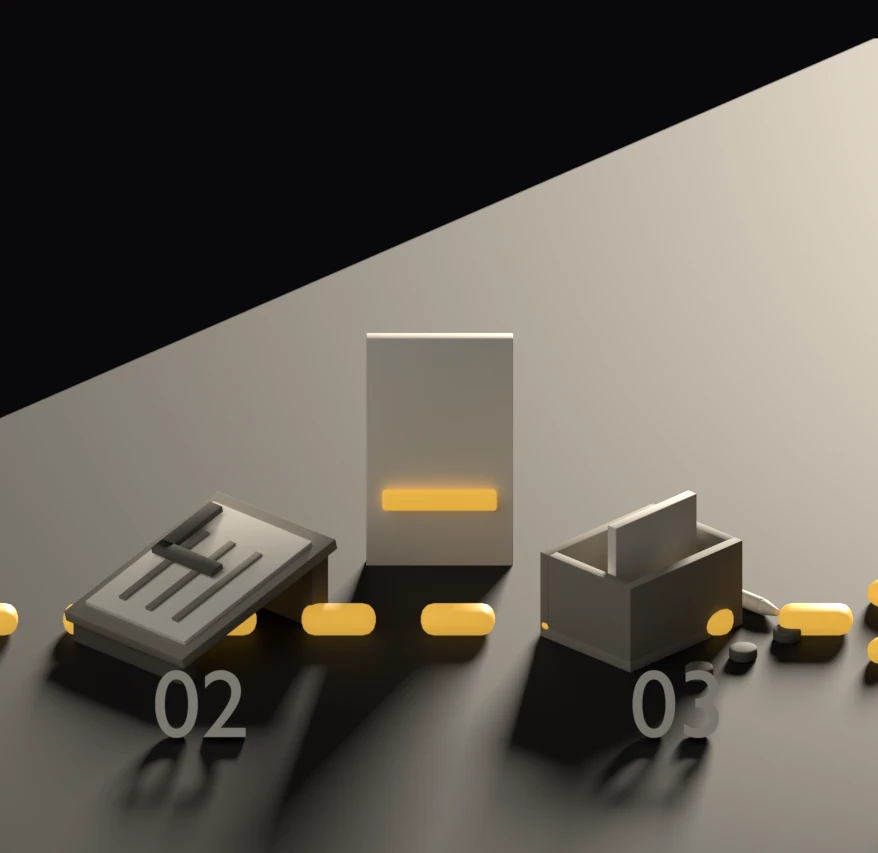
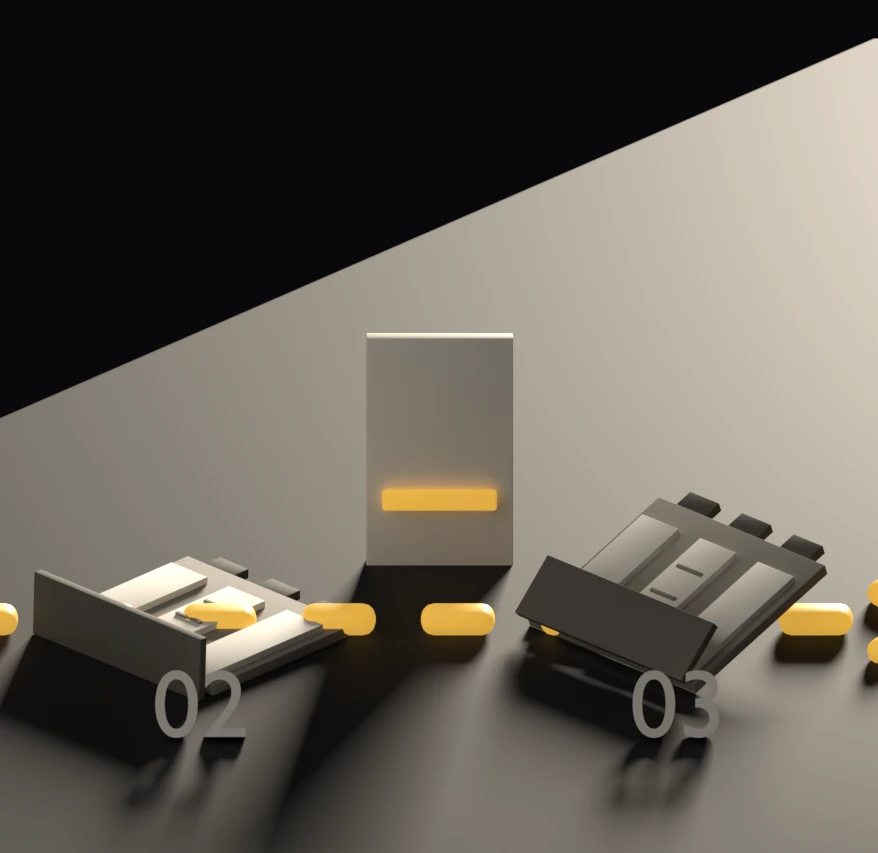
feat(hiw): hiw-chaine sert un seul objet en quatre etats, rail et ancres inchanges
Les huit WebP sont re-sortis. Le client voyait quatre objets bien rendus qui ne
disaient pas quatre etapes : les quatre stations sont maintenant LE MEME objet — le
dossier du client, couverture + rabat + trois onglets + trois feuilles — dans quatre
etats, batis par une seule fonction appelee quatre fois.

CE FICHIER N'AVAIT AUCUNE GEOMETRIE A CHANGER, ET CE N'EST PAS UNE PAROLE.
`rendus/chaine.ancres.json` est byte-a-byte identique a celui de la version
precedente : les quatre abscisses de X_STATIONS valent toujours 0,1278 / 0,3409 /
0,5541 / 0,7673 et les deux ancres d'etiquette toujours (0,7673 ; 0,2407) et
(0,9202 ; 0,3534). La scene les re-emet et les compare elle-meme aux litteraux de ce
fichier, et sort en code 1 avant de rendre si l'une differe. Le recadrage du <source>
fait toujours 878x853 aux memes fractions x 0,2513..0,6433, y 0,2239..0,8562.

Re-verifie sur le serveur de dev par les deux sondes d'airbnb-demo :
  verif_rail.js            37/37 — quatre tirets aux quatre fractions exactes,
                           0 tiret en avance, queue en pointille a (1 - 0,7673),
                           bande absente a 767 et a 390 px, rail plein et immobile
                           en mouvement reduit
  verif_rail_lisible.js    fr 33/33 ; en 32/33, le seul echec etant la dette
                           PRE-EXISTANTE deja prouvee par A/B (contraste
                           remplissage/piste 5,5:1 a 768 px en locale en)
[…]

Changed region(s): [[0.5535, 0.5791, 0.9533, 1.0], [0.0, 0.5791, 0.3998, 0.9449]]

diff --git a/components/HowItWorks.tsx b/components/HowItWorks.tsx
@@ -207,14 +207,34 @@ const X_STATIONS = [0.1278, 0.3409, 0.5541, 0.7673] as const;
  * demi-profondeur du socle, et aucun parametre du pointille n'y entre. Le rail, ses
  * quatre tirets et la grille de colonnes ne visent donc rien qui ait bouge.
  *
- * ── ET C'EST ENCORE VRAI APRES LA REFONTE DES QUATRE CORPS DE STATION ───────
- * Le client a refuse les quatre cadres gris de completude croissante : « ils ne
- * disent ni diagnostic ni resultat ». Les quatre corps sont donc refaits — un
- * dossier a onglets, une planche a dessin, un boitier en montage, un porte-dossiers
- * — et la cause en est mesuree : dans le releve des lectures a l'aveugle du
- * chantier, tous les objets qu'un lecteur a NOMMES ont une silhouette composee de
- * plusieurs volumes, et tous ceux qui ont echoue sont un volume unique ou la
- * repetition d'un volume unique. Quatre cadres gris etaient le second cas.
+ * ── ET C'EST ENCORE VRAI APRES DEUX REFONTES DES QUATRE CORPS DE STATION ────
+ * PREMIERE REFONTE. Le client a refuse les quatre cadres gris de completude
+ * croissante : « ils ne disent ni diagnostic ni resultat ». Les quatre corps sont
+ * devenus quatre OBJETS — un dossier a onglets, une planche a dessin, un boitier en
+ * montage, un porte-dossiers.
+ *
+ * SECONDE REFONTE, ET C'EST CE QUE L'ASSET SERT AUJOURD'HUI. Le client a refuse ces
+ * quatre objets aussi, et pour une autre raison : ils sont bien rendus mais ILS NE
+ * DISENT PAS QUATRE ETAPES. La cause etait dans le code — quatre fonctions batissaient
+ * quatre objets sans rapport, sans un maillage partage ni aucune machine a etats, et
+ * le seul fil etait une matiere. Les quatre stations sont donc maintenant UN SEUL
+ * OBJET — le dossier du client : une couverture, un rabat, trois onglets, trois
+ * feuilles — dans QUATRE ETATS, batis par une seule fonction appelee quatre fois :
+ * ferme et vide avec les feuilles en tas dessus ; ouvert avec les feuilles dedans,
+ * alignees et annotees ; redresse a 20 deg, le rabat redescendant ; debout, ferme,
+ * lisere dore. L'invariant est MESURE et non affirme : la scene compare les
+ * dimensions locales des huit volumes structurels cote a cote aux quatre stations et
+ * sort en code 1 avant de rendre si l'une differe.
+ *
+ * CE QUE LES LECTURES A L'AVEUGLE DISENT DE L'ASSET SERVI, Y COMPRIS CE QUI RATE.
+ * Huit lectures au registre `rendu-3d/REGISTRE_LECTURES.jsonl`. Sur l'asset servi,
+ * 4 lecteurs sur 4 repondent « une meme chose » et donnent l'ordre 01 -> 04 — mais
+ * les quatre citent LES NUMEROS GRAVES ET LES FLECHES comme raison, pas les formes.
+ * Sur un temoin rendu sans les numeros, 2 sur 4 seulement : les deux de 1 120 px de
+ * largeur d'AFFICHAGE oui, les deux de 728 px non. A 728 px la progression est donc
+ * portee par les chiffres. La corriger demanderait un objet plus grand que le carre
+ * de station de 0,294, donc un autre ECHELLE, donc d'autres abscisses que les quatre
+ * de X_STATIONS ci-dessus : c'est un arbitrage du client, pas un reglage.
  *
  * CE FICHIER N'A RIEN A CHANGER POUR AUTANT, ET CE N'EST PAS UNE PAROLE : la scene
  * RE-EMET ses quatre abscisses et les compare elle-meme aux quatre litteraux de
